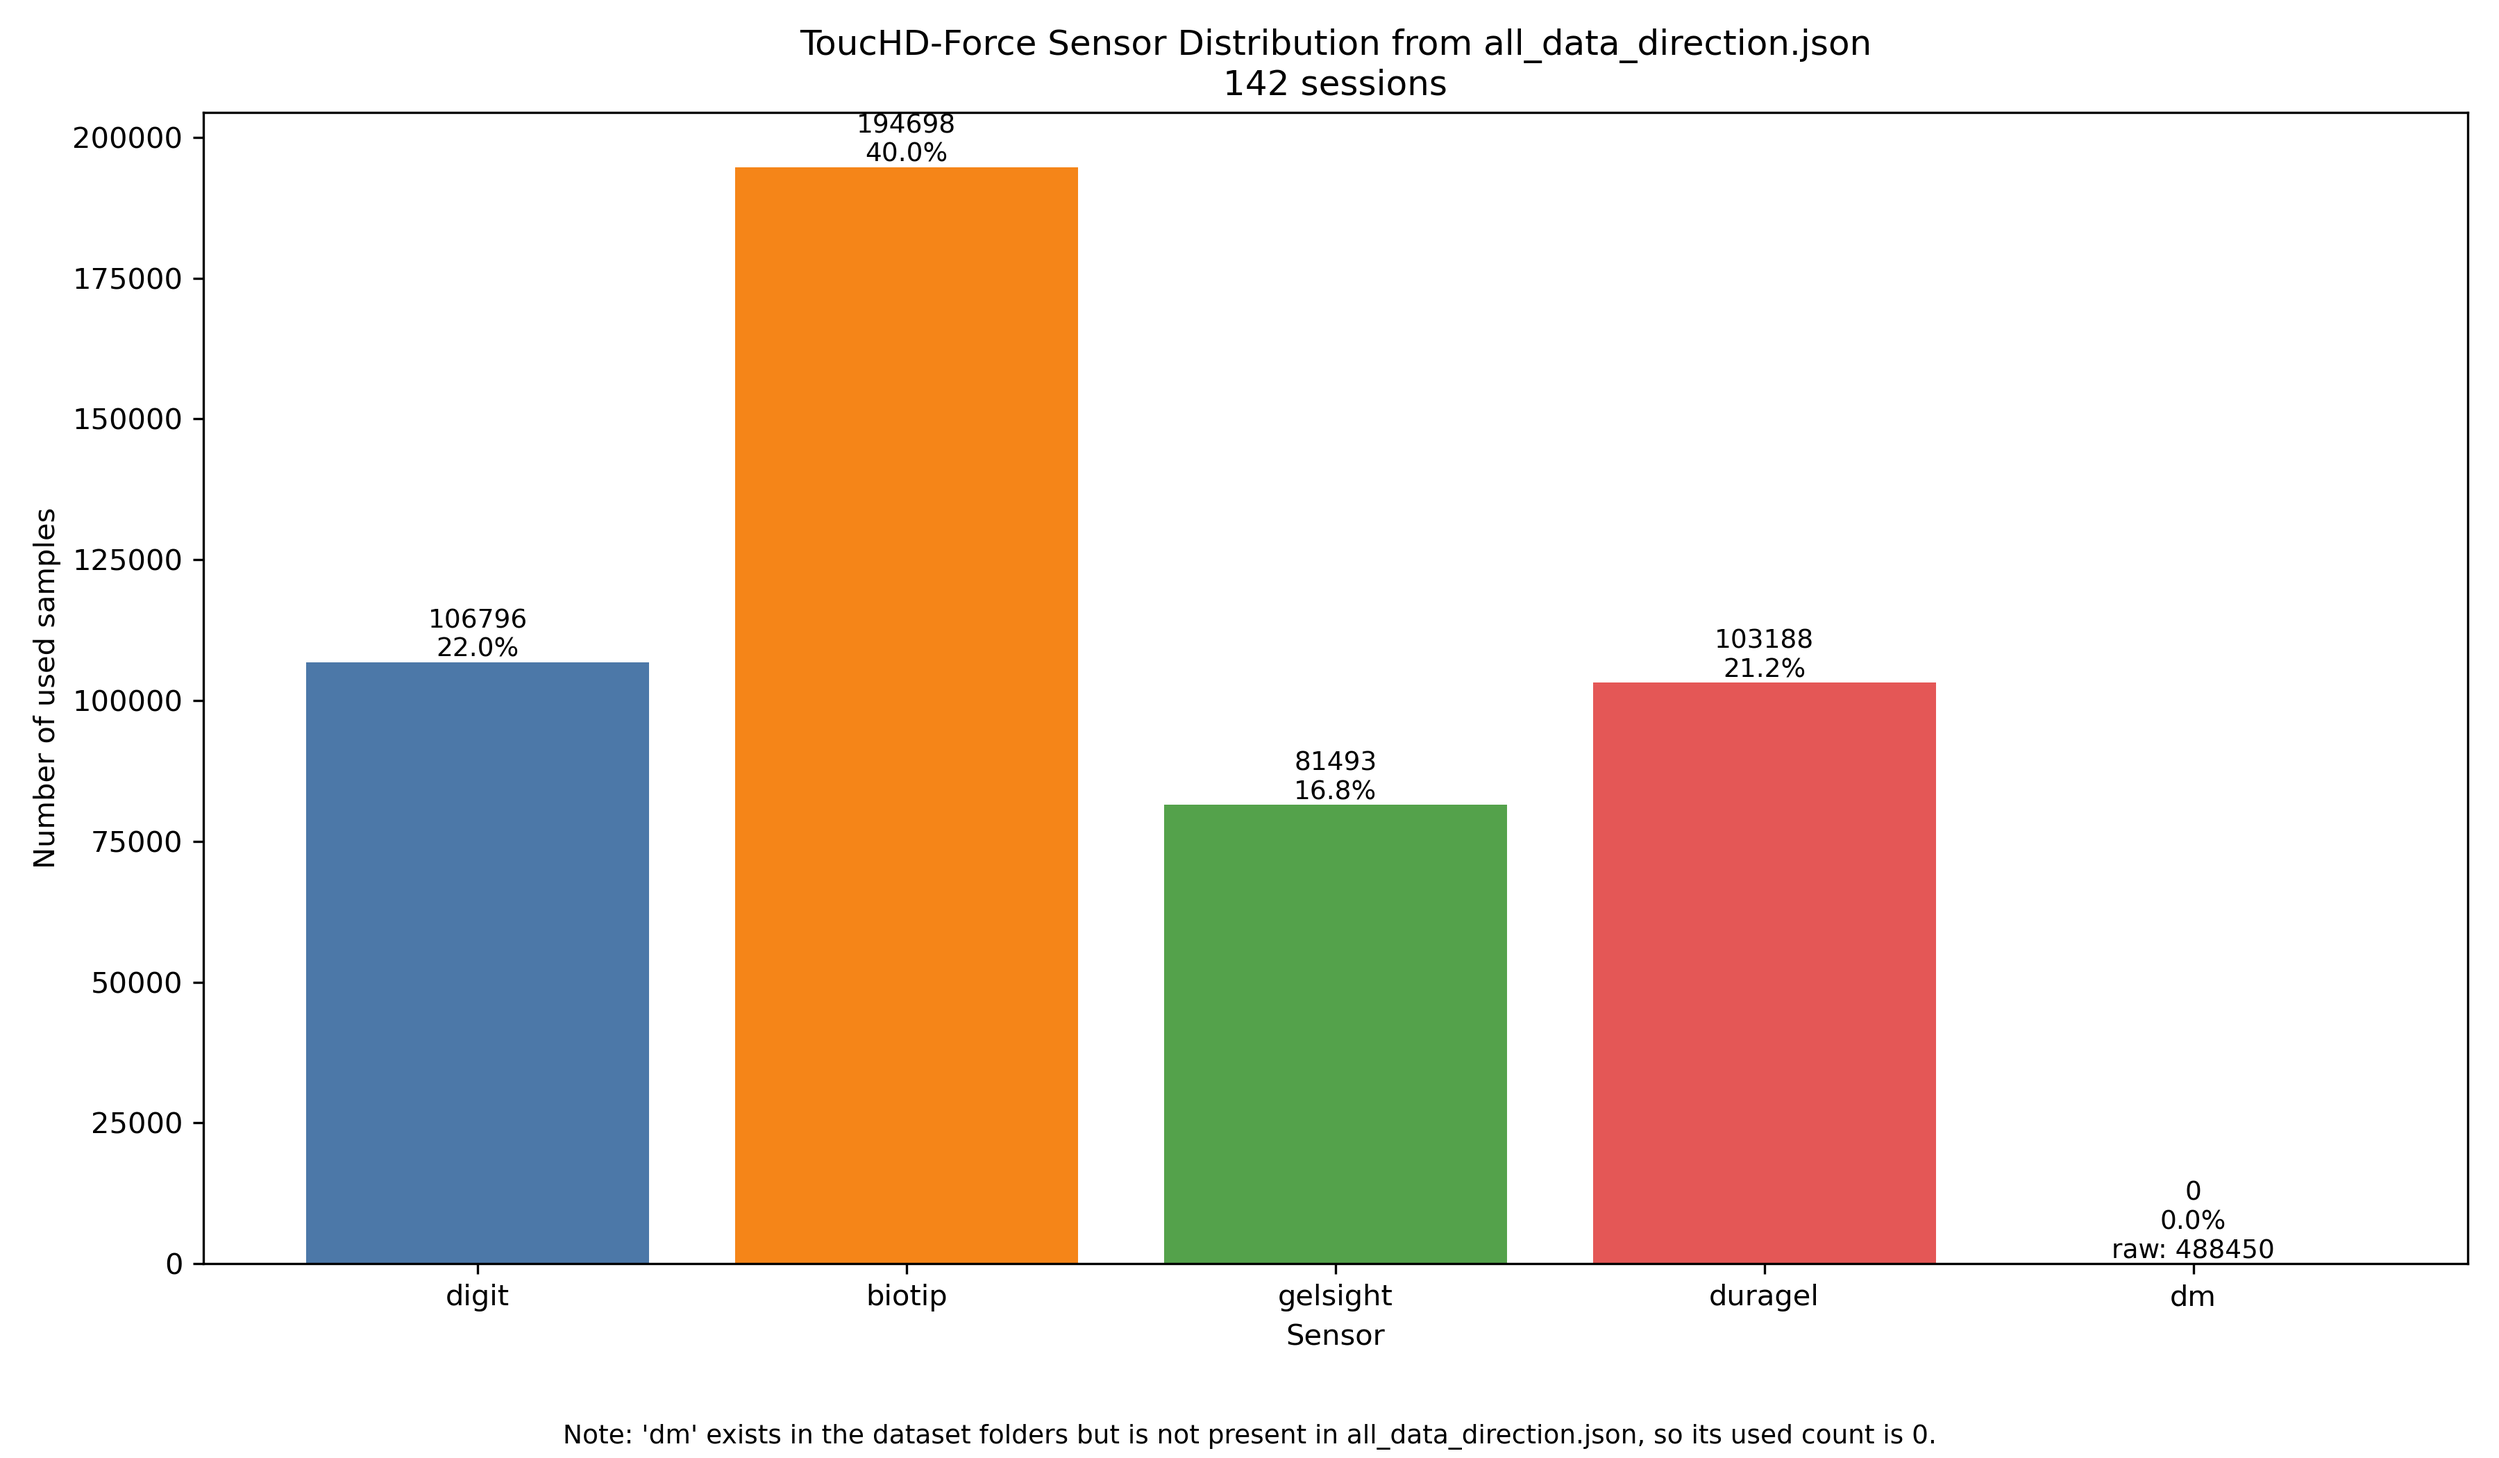
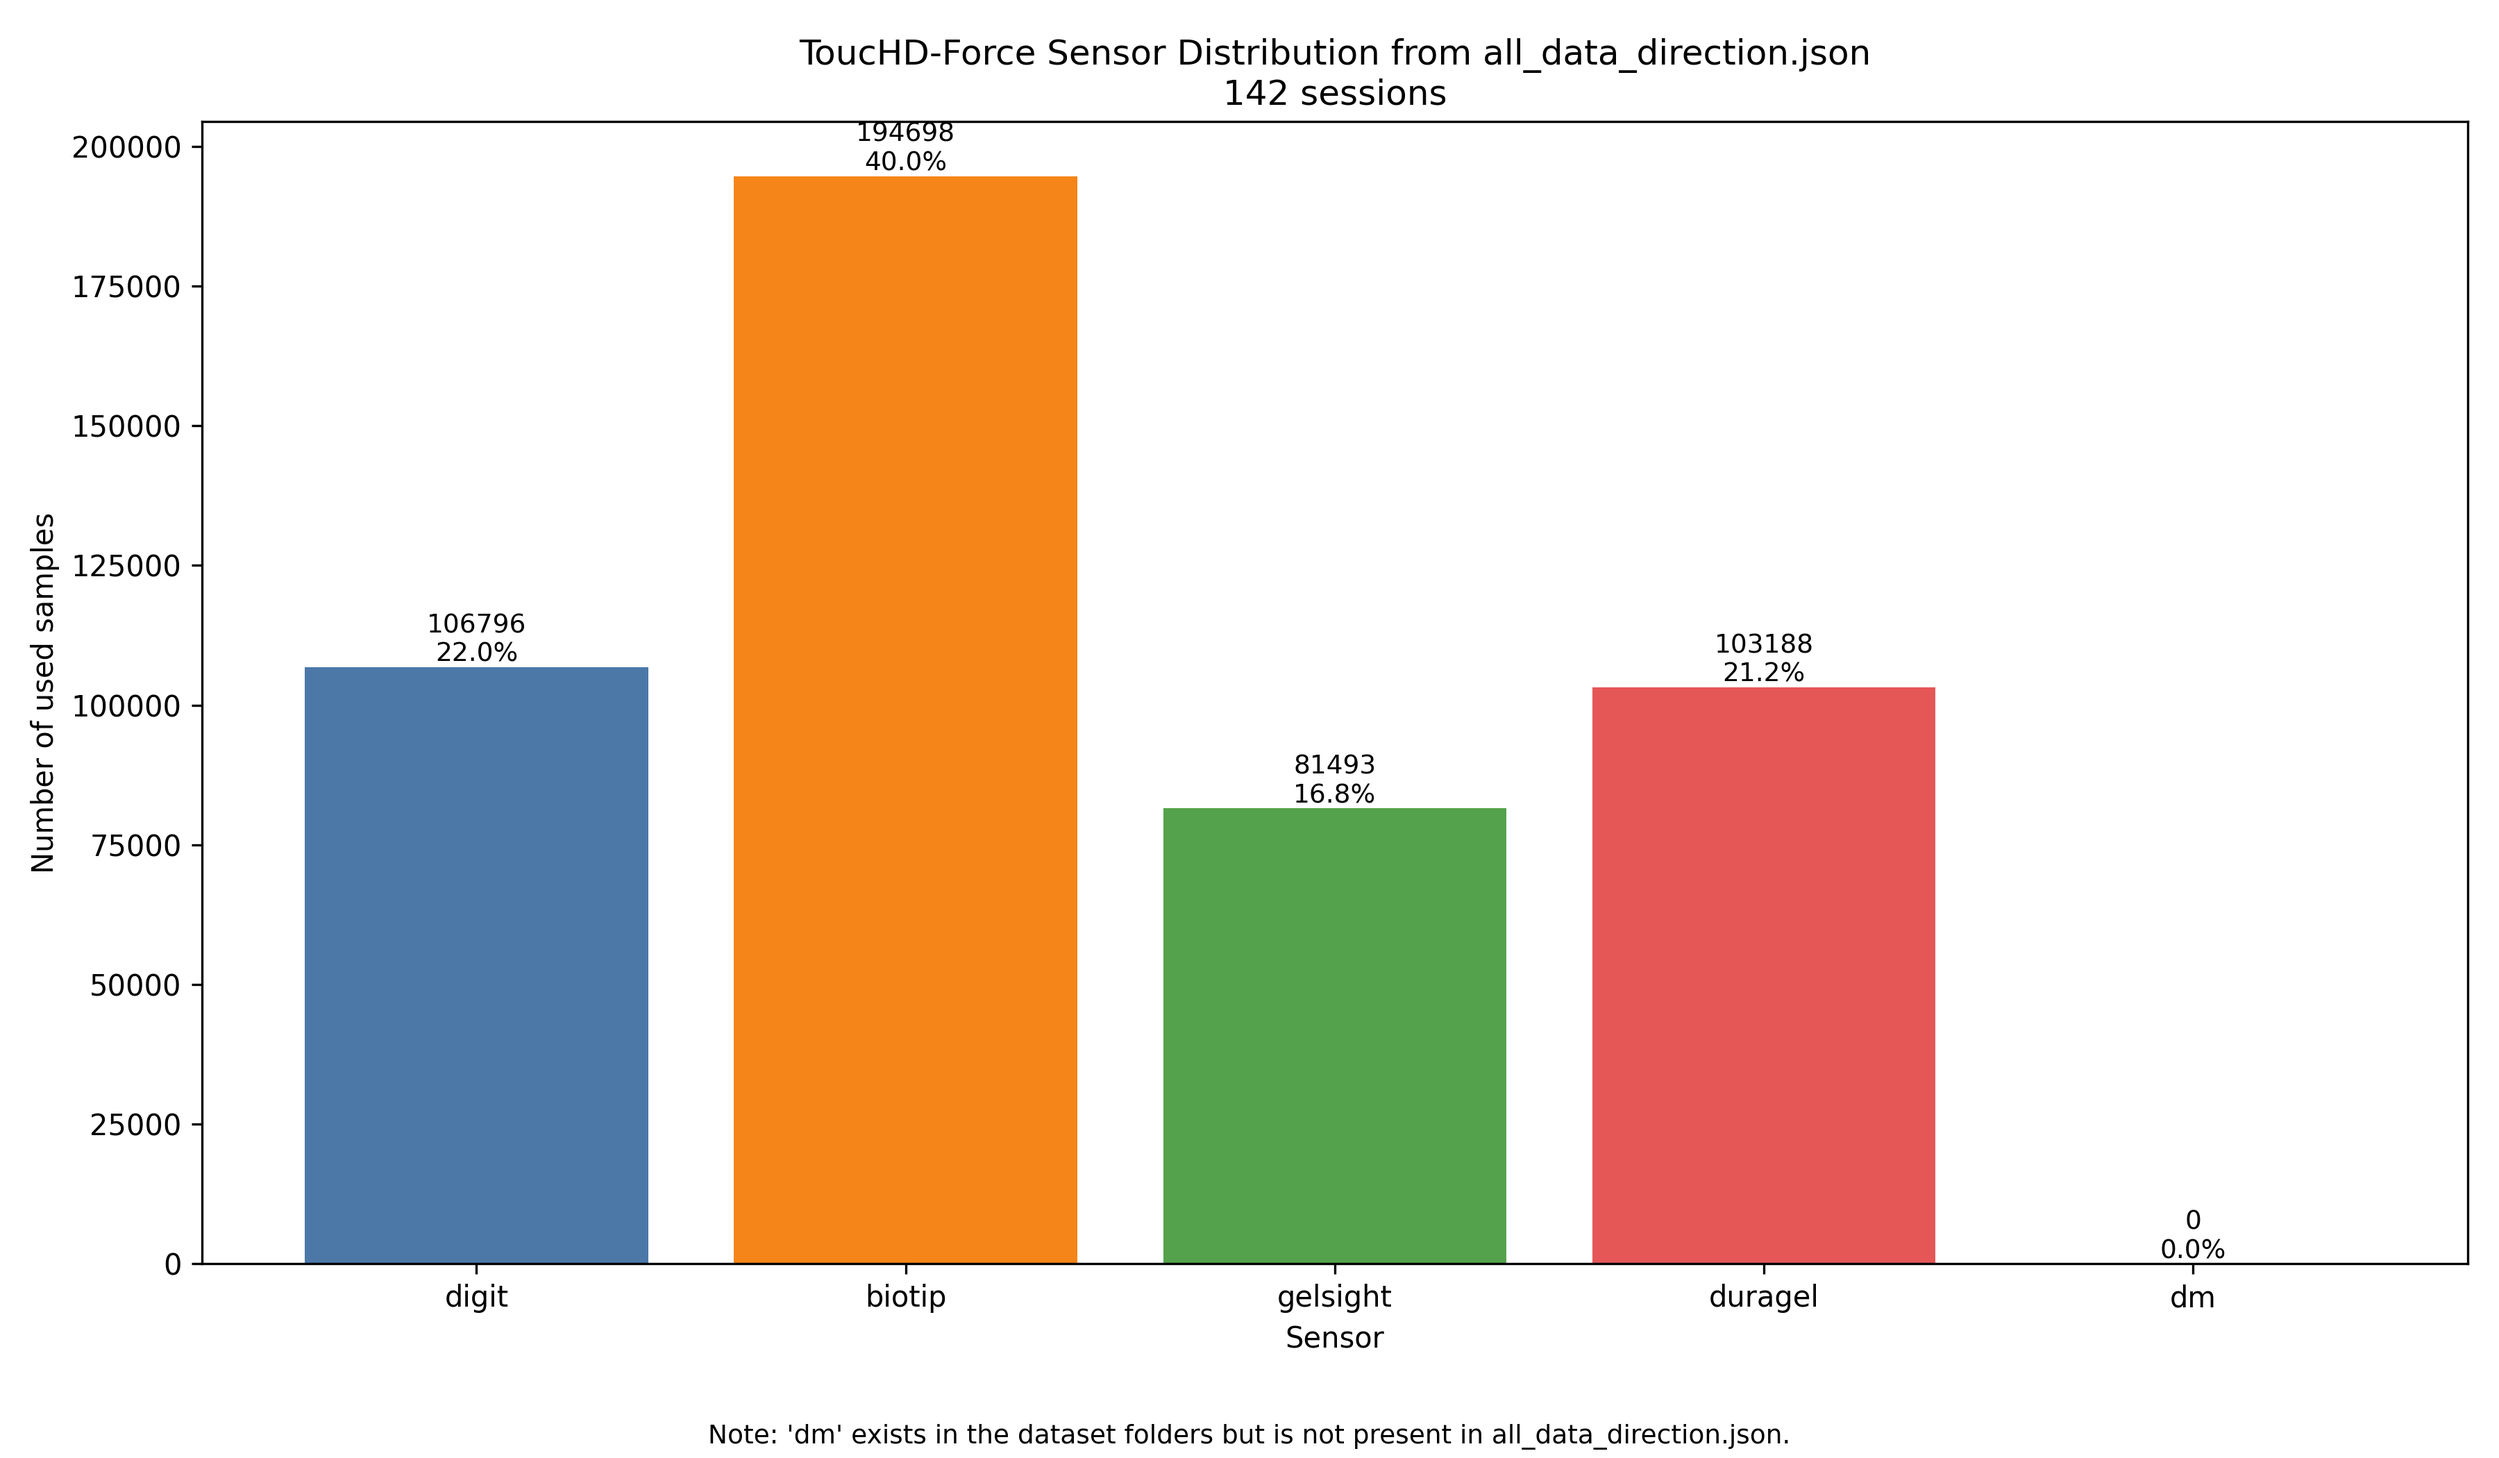
a

diff --git a/datadis/cloth/plot_cloth_distribution.py b/datadis/cloth/plot_cloth_distribution.py
@@ -114,10 +114,10 @@ def plot_distribution(ax, distribution, title, highlight_missing=False):
 
 
 def main():
-    data_dir = Path(__file__).resolve().parents[1]
-    train_path = data_dir / "train_data_new.json"
-    test_path = data_dir / "test_data_new.json"
-    cloth_metadata_path = data_dir / "cloth_metadata.json"
+    data_dir =Path("/fastwork/jhou/AnyTouch2")
+    train_path = data_dir / "data" / "train_data_new.json"
+    test_path = data_dir / "data" / "test_data_new.json"
+    cloth_metadata_path = data_dir / "data" / "cloth_metadata.json"
 
     train_data = load_json(train_path)
     test_data = load_json(test_path)
@@ -136,7 +136,7 @@ def main():
     )
     axes[1].set_xlabel("Encoded textile type")
 
-    output_path = Path(__file__).resolve().parent / "cloth_data_distribution.png"
+    output_path = data_dir / "datadis" / "cloth" / "cloth_data_distribution.png"
     fig.savefig(output_path, dpi=300, bbox_inches="tight")
     print(f"Saved plot to {output_path}")
 

diff --git a/datadis/cloth/plot_cloth_trial_usage.py b/datadis/cloth/plot_cloth_trial_usage.py
@@ -74,9 +74,9 @@ def plot_usage(ax, usage_by_cloth, title, color):
 
 
 def main():
-    data_dir = Path(__file__).resolve().parents[1]
-    train_data = load_json(data_dir / "train_data_new.json")
-    test_data = load_json(data_dir / "test_data_new.json")
+    data_dir = Path("/fastwork/jhou/AnyTouch2")
+    train_data = load_json(data_dir / "data" /"train_data_new.json")
+    test_data = load_json(data_dir / "data" / "test_data_new.json")
 
     train_usage = compute_trial_usage(train_data)
     test_usage = compute_trial_usage(test_data)
@@ -86,7 +86,7 @@ def main():
     plot_usage(axes[1], test_usage, "Test Cloth Usage by Cloth Index", "#DD8452")
     axes[1].set_xlabel("Cloth index")
 
-    output_path = Path(__file__).resolve().parent / "cloth_trial_usage_distribution.png"
+    output_path = data_dir / "datadis" / "cloth" / "cloth_trial_usage_distribution.png"
     fig.savefig(output_path, dpi=300, bbox_inches="tight")
     print(f"Saved plot to {output_path}")
 

diff --git a/datadis/ToucHD/plot_sensor_distribution.py b/datadis/ToucHD/plot_sensor_distribution.py
@@ -77,7 +77,7 @@ def plot_used_distribution(
     plt.figtext(
         0.5,
         0.01,
-        "Note: 'dm' exists in the dataset folders but is not present in all_data_direction.json, so its used count is 0.",
+        "Note: 'dm' exists in the dataset folders but is not present in all_data_direction.json.",
         ha="center",
         fontsize=9,
     )
@@ -87,9 +87,9 @@ def plot_used_distribution(
 
 
 def main() -> None:
-    base_dir = Path(__file__).resolve().parent
-    json_path = base_dir / "all_data_direction.json"
-    output_path = base_dir / "sensor_distribution.png"
+    base_dir = Path("/fastwork/jhou/AnyTouch2")
+    json_path = base_dir / "datasets" / "ToucHD-Force" / "all_data_direction.json"
+    output_path = base_dir / "datadis" / "ToucHD" / "sensor_distribution.png"
 
     used_counts, session_count = load_used_counts(json_path)
     raw_counts = count_raw_files(base_dir)

diff --git a/datadis/touch_and_go/plot_for_train_test.py b/datadis/touch_and_go/plot_for_train_test.py
@@ -84,13 +84,13 @@ def plot_distribution(ax, counts: Counter, category_mapping: dict[int, str], tit
             fontsize=8,
         )
 def main() -> None:
-    base_dir = Path(__file__).resolve().parent
-    project_dir = base_dir.parents[1]
+    base_dir = Path("/fastwork/jhou/AnyTouch2")
+    project_dir = Path("/fastwork/jhou/AnyTouch2")
 
     train_path = project_dir / "data" / "train_bg.txt"
     test_path = project_dir / "data" / "test_bg.txt"
-    reference_path = base_dir / "category_reference.txt"
-    output_path = base_dir / "train_test_bg_distribution.png"
+    reference_path = base_dir / "datasets" / "touch_and_go" / "category_reference.txt"
+    output_path = base_dir / "datadis" / "touch_and_go" / "train_test_bg_distribution.png"
 
     category_mapping = load_category_mapping(reference_path)
     train_counts = load_label_counts(train_path)

diff --git a/datadis/touch_and_go/plot_label_distribution.py b/datadis/touch_and_go/plot_label_distribution.py
@@ -76,10 +76,10 @@ def plot_distribution(counts: Counter, category_mapping: dict[int, str], output_
 
 
 def main() -> None:
-    base_dir = Path(__file__).resolve().parent
-    label_path = base_dir / "label.txt"
-    reference_path = base_dir / "category_reference.txt"
-    output_path = base_dir / "label_distribution.png"
+    base_dir = Path("/fastwork/jhou/AnyTouch2")
+    label_path = base_dir / "datasets" / "touch_and_go" /"label.txt"
+    reference_path = base_dir / "datasets" / "touch_and_go" / "category_reference.txt"
+    output_path = base_dir / "datadis" / "touch_and_go" / "label_distribution.png"
 
     category_mapping = load_category_mapping(reference_path)
     counts = load_label_counts(label_path)
